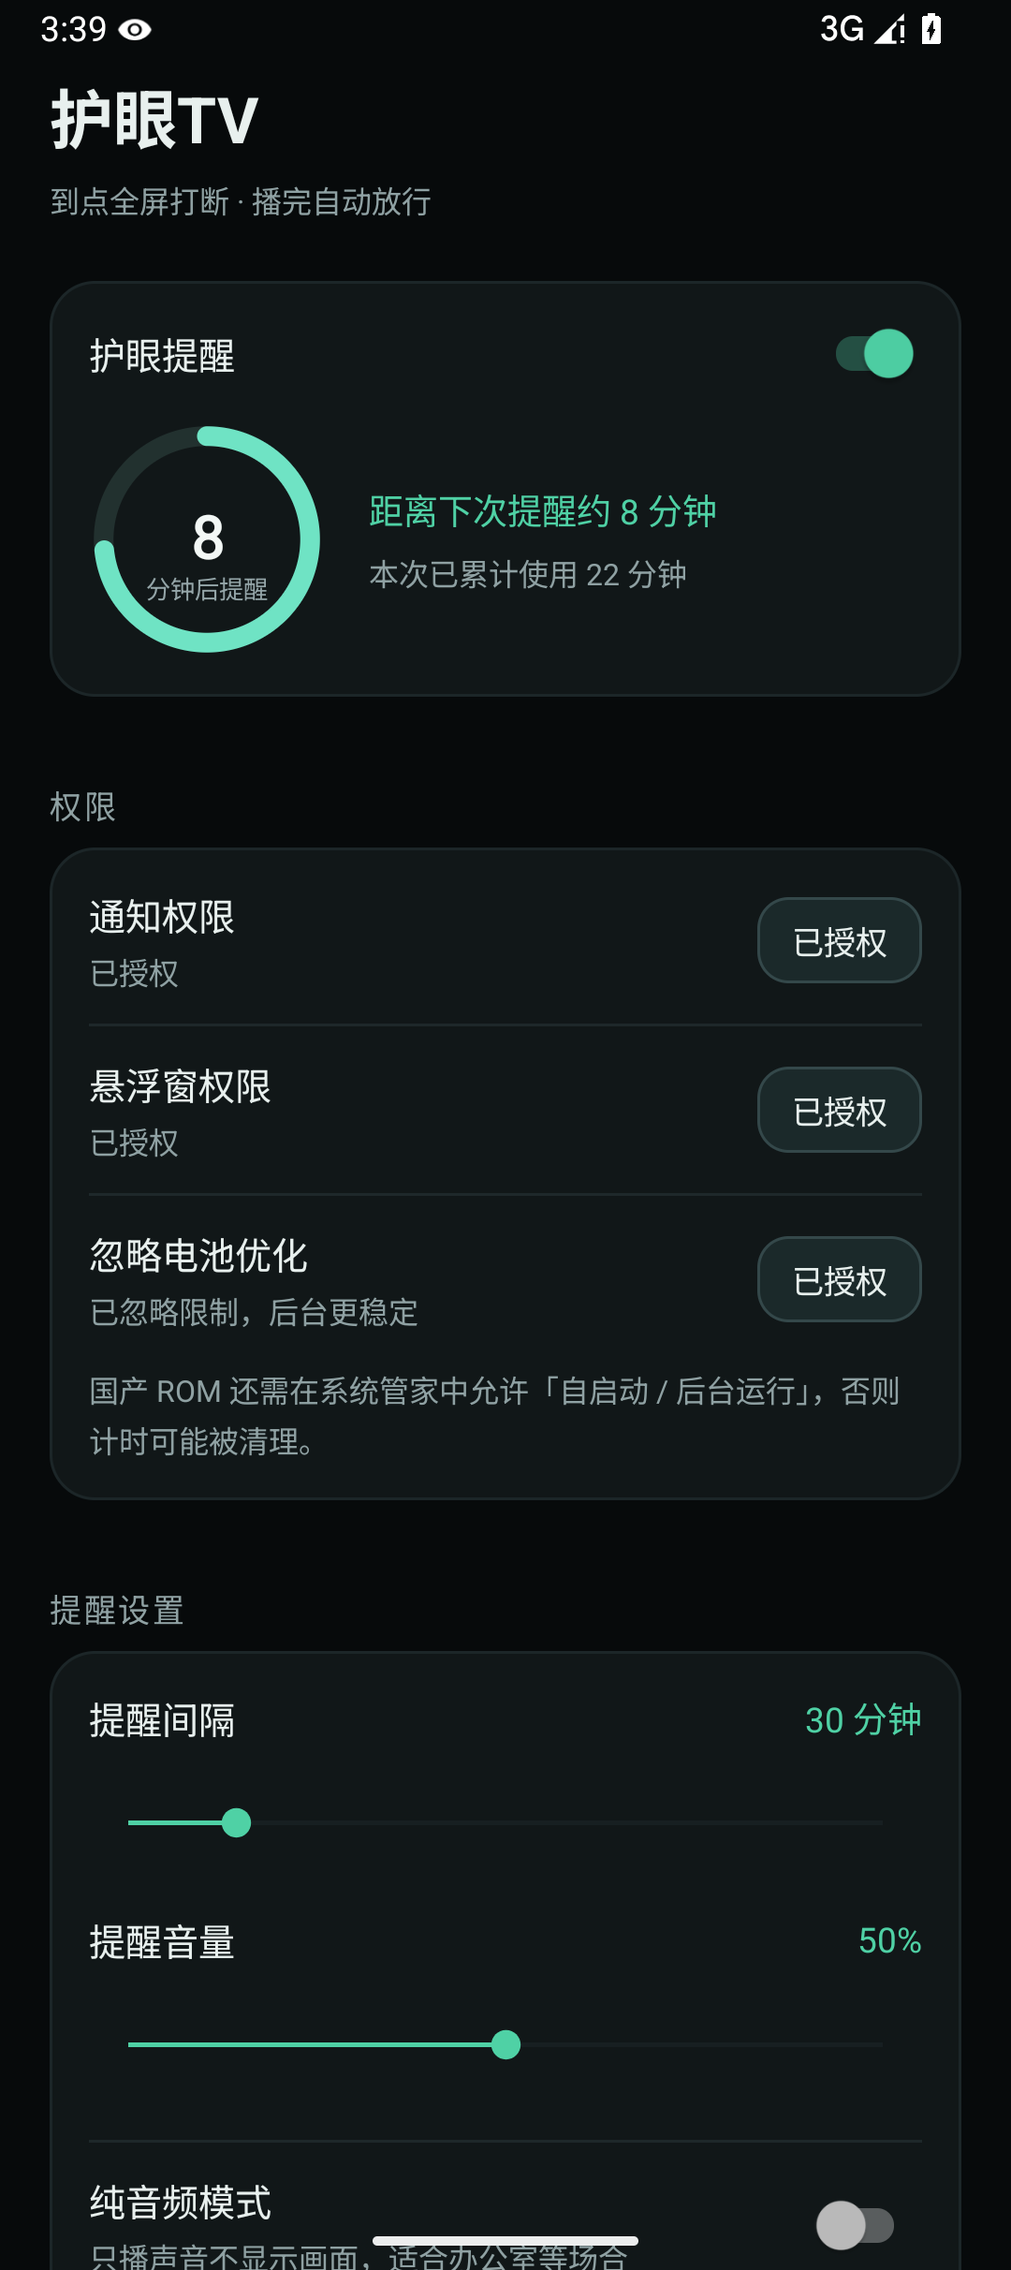
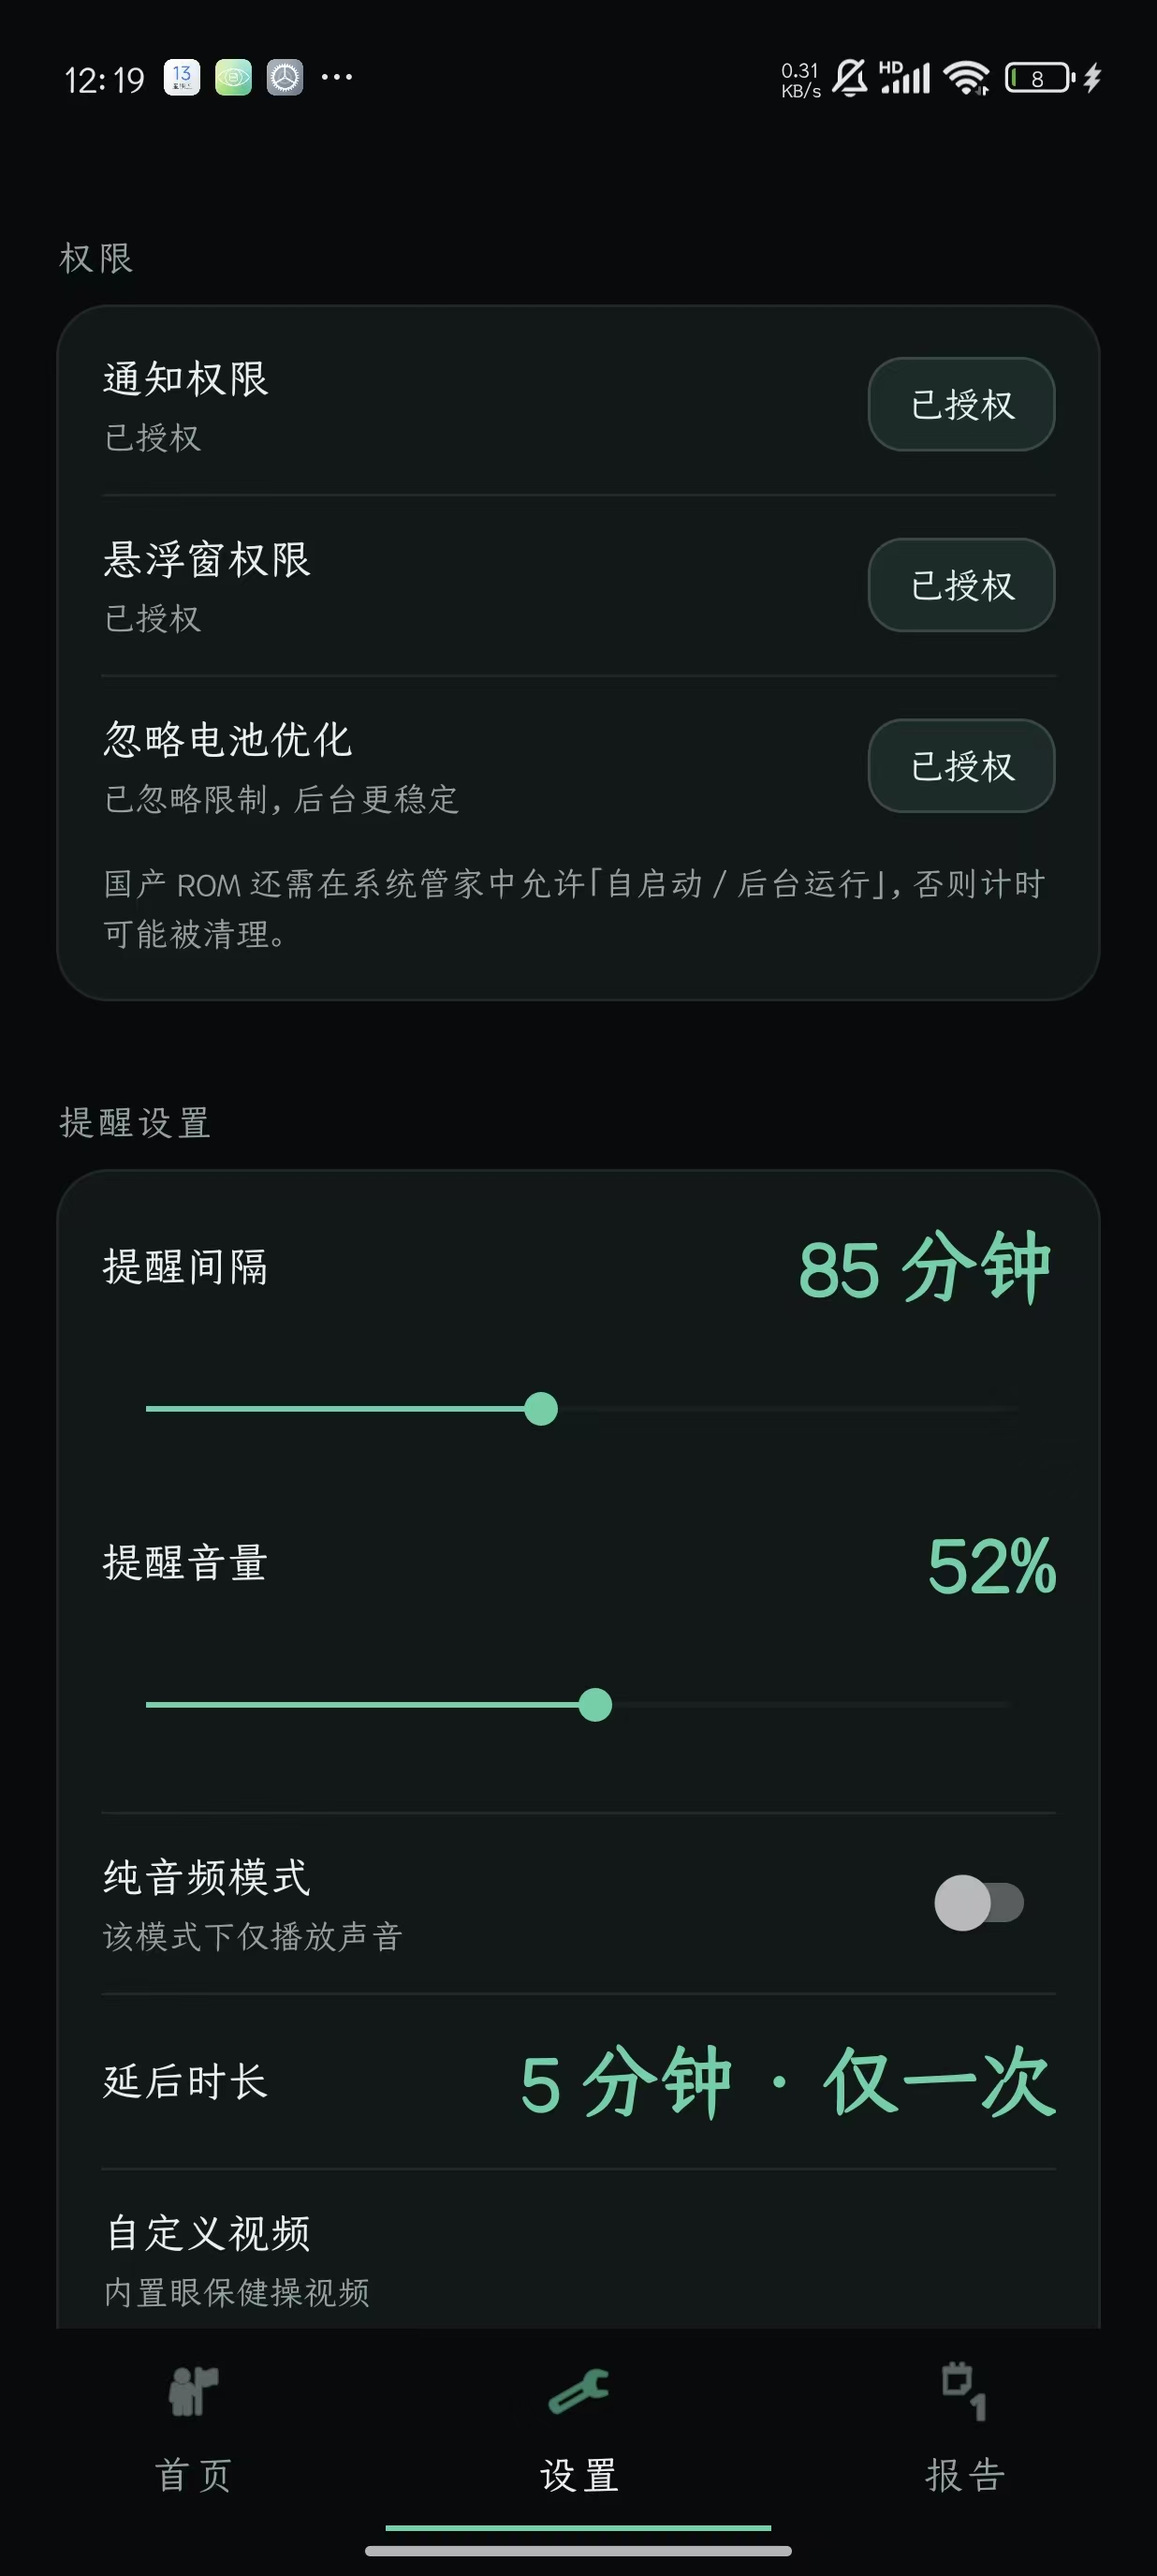
docs: 更新 Android 端界面截图，补充首页与 AI 报告页展示

diff --git a/README.md b/README.md
@@ -85,8 +85,12 @@ python -m venv .venv
 | 首次引导 | 三步授权向导，按机型给出华为/小米/OPPO/vivo 的保活路径 |
 
 <p>
-  <img src="docs/android-settings.png" width="45%" />
-  <img src="docs/android-reminder.png" width="45%" />
+  <img src="docs/android-home.png" width="30%" />
+  <img src="docs/android-settings.png" width="30%" />
+  <img src="docs/android-report.png" width="30%" />
+</p>
+<p align="center">
+  <img src="docs/android-reminder.png" width="100%" />
 </p>
 
 ### 构建
